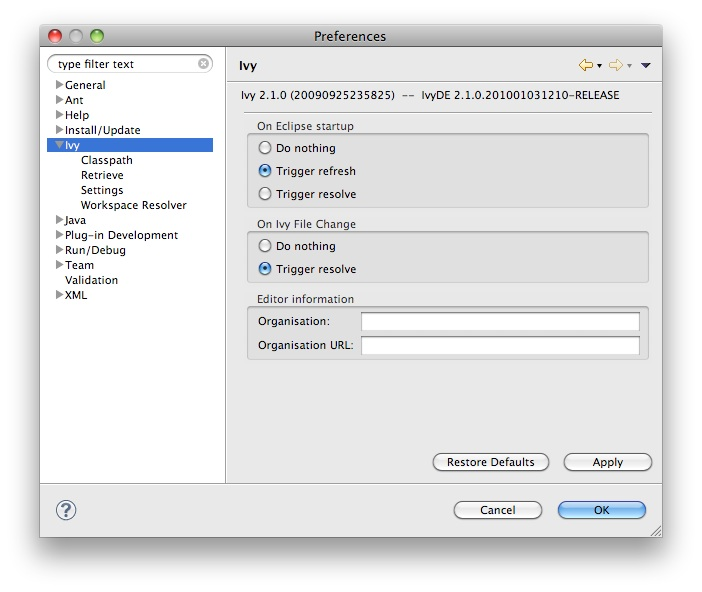
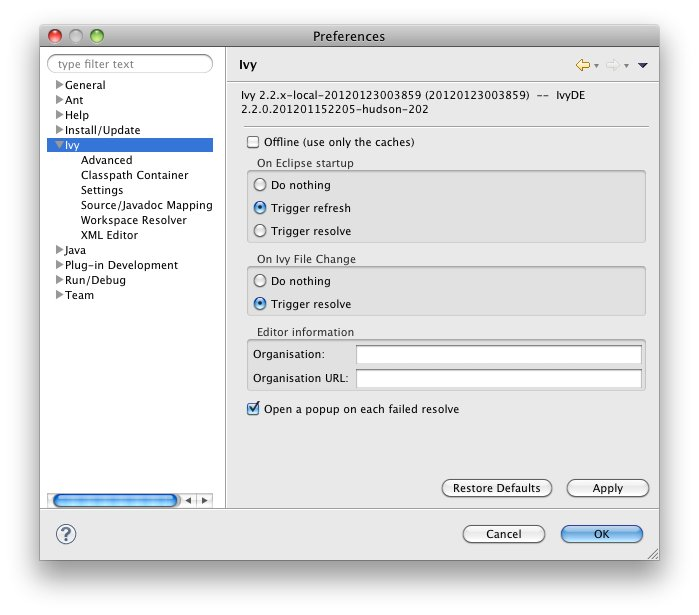
First review of the screenshots
git-svn-id: http://svn.apache.org/repos/asf/ant@1238084 13f79535-47bb-0310-9956-ffa450edef68

Changed region(s): [[0.0601, 0.0304, 0.9313, 0.6993], [0.0601, 0.7601, 0.9614, 0.9122]]

diff --git a/ivy/ivyde/trunk/doc/preferences.html b/ivy/ivyde/trunk/doc/preferences.html
@@ -30,7 +30,6 @@ The global configuration can be found in the preferences of Eclipse (menu Window
 
 <h1><a name="global"></a>Global Ivy preferences</h1>
 
-<b><font color="red">TODO: SCREENSHOT NOT UP TO DATE</font></b>
 <center><img src="images/pref.jpg"/></center>
 
 <h4>Offline</h4>
@@ -48,14 +47,16 @@ The global configuration can be found in the preferences of Eclipse (menu Window
 
 <h1><a name="advanced"></a>Advanced</h1>
 
-<b><font color="red">TODO: SCREENSHOT</font></b>
+<center><img src="images/pref_advanced.jpg"/></center>
 
 <h4>Resolve before launch:</h4>
 <p>An IvyDE container can be used in the classpath of a launch configuration, and the container can be resolved on each launch. See the documentation about <a href="cpc/launch.html">launch configurations</a> for further information on this feature.</p>
 
+<h4>Use extended resolve id</h4>
+<p>A resolve id is an identifier which helps Ivy to make cache of results of resolve. By default IvyDE each the id which is composed of the organisation and the module name. An extended resolve id is also composed of the status, branch and revision. If you have troubles with the resolve of multiple versions of the same project within the same workspace, you should probably enable this option.</p>
+
 <h1><a name="classpath"></a>Classpath container</h1>
 
-<b><font color="red">TODO: SCREENSHOT NOT UP TO DATE</font></b>
 <center><img src="images/pref_classpath.jpg"/></center>
 
 <h4>Resolve dependencies in workpace:</h4>
@@ -75,7 +76,6 @@ The global configuration can be found in the preferences of Eclipse (menu Window
 
 <h1><a name="settings"></a>Ivy settings</h1>
 
-<b><font color="red">TODO: SCREENSHOT NOT UP TO DATE</font></b>
 <center><img src="images/pref_settings.jpg"/></center>
 
 <h4>Reload the settings only on demand:</h4>
@@ -87,8 +87,7 @@ The global configuration can be found in the preferences of Eclipse (menu Window
 
 <h1><a name="mapping"></a>Source/Javadoc mapping</h1>
 
-<b><font color="red">TODO: SCREENSHOT NOT UP TO DATE</font></b>
-<center><img src="images/pref_workspace.jpg"/></center>
+<center><img src="images/pref_source_javadoc_mapping.jpg"/></center>
 
 <h4>Sources types:</h4>
 <p>A comma separated list of Ivy "type" names which should be considered sources.</p>
@@ -107,7 +106,6 @@ The global configuration can be found in the preferences of Eclipse (menu Window
 
 <h1><a name="workspace"></a>Workspace resolver</h1>
 
-<b><font color="red">TODO: SCREENSHOT NOT UP TO DATE</font></b>
 <center><img src="images/pref_workspace.jpg"/></center>
 
 <h4>Closing trigger resolve:</h4>
@@ -119,8 +117,7 @@ The global configuration can be found in the preferences of Eclipse (menu Window
 
 <h1><a name="xmleditor"></a>XML Editor</h1>
 
-<b><font color="red">TODO: SCREENSHOT</font></b>
-<center><img src="images/xmleditor_color_config.jpg"/></center>
+<center><img src="images/xml_editor_color.jpg"/></center>
 
 This configuration panel allow you to change the color used in the <a href="ivyeditor.html">Ivy file editor</a> and the <a href="settingseditor.html">Ivy settings editor</a>.
 </textarea>

diff --git a/ivy/ivyde/trunk/doc/index.html b/ivy/ivyde/trunk/doc/index.html
@@ -24,7 +24,7 @@
 </head>
 <body>
 	<textarea id="xooki-source">
-Apache IvyDE is the Eclipse plugin which integrates Apache Ivy's dependency management into Eclipse&#153;. It lets you manage your dependencies declared in an ivy.xml in your Java Eclipse projects, or any other kind of project which needs dependency management.
+Apache IvyDE Eclipse plugin integrates Apache Ivy's dependency management into Eclipse&#153;. It lets you manage your dependencies declared in an ivy.xml in your Java Eclipse projects, or any other kind of project which needs dependency management.
 
 A summary of the features it provides follows:
 <ul>
@@ -33,6 +33,7 @@ A summary of the features it provides follows:
 <li><a href="settingseditor.html">Ivy settings files editor</a>: completion for XML tags, attributes, and attribute values.</li>
 <li><a href="cp_container.html">Ivy console</a>: presents every log from Ivy to assist in debugging a failing resolve.</li>
 <li><a href="revdepexplorer.html">Reverse Dependency Explorer</a>: helps you work with conflicting dependencies amongst several projects.</li>
+<li>Resolve and retrieve for non Java project: use Ivy within Eclipse to manage files non necessarly Java-related</li>
 </ul>
 
 Apache IvyDE can be also used with other plugins like <a href="cpc/wtp.html">WTP</a> and <a href="ant.html">Apache Ant</a>.

diff --git a/ivy/ivyde/trunk/doc/cpc/resolve.html b/ivy/ivyde/trunk/doc/cpc/resolve.html
@@ -30,6 +30,8 @@ This command will invoke the "resolve" Ivy task and update your classpath contai
 
 There is also a "refresh" action: this action is similar to the resolve one, but does not perform a full resolve if a report already exists in the cache. This is particularly useful if you work with Apache Ant and a command line so that you avoid two full resolves.  It is also the default action performed on classpath containers when the Eclipse workspace is opened (<b>Windows > Preferences > Ivy</b>), in effect restoring the classpath container to its state prior to the last closing of the workspace if no other action is performed against the ivy.xml in the meantime.
 
+And there is a "reload settings" action: by default IvyDE does reload ivy settings files each time a resolve it required. But in case the ivy settings file is remote, this take make the user experience quite slow. To work around that, you can check in the <a href="../preferences.html">preference page</a> the option to only load on demand, and use the "reload settings" action in the context menu.
+
 <center><img src="../images/cp_resolve.jpg"></center><br/>
 
 You can also trigger a resolve (not a refresh!) of every IvyDE classpath container in the workspace via the button in the tool bar of Eclipse.

diff --git a/ivy/ivyde/trunk/doc/cpc/workspace.html b/ivy/ivyde/trunk/doc/cpc/workspace.html
@@ -32,7 +32,7 @@ Consider a multi-module application with a considerable amount of code in each o
 
 First, each application module should be separate a project in Eclipse, and each of these projects should have a configured IvyDE classpath container.
 
-To enable resolution in the workspace, go to the advanced configuration panel of the classpath container and select <b>Resolve dependencies in workspace</b>.
+To enable resolution in the workspace, go to the "classpath" panel of the classpath container and select <b>Resolve dependencies in workspace</b>.
 
 <center><img src="../images/workspace.jpg"/></center>
 

diff --git a/ivy/ivyde/trunk/doc/cp_container.html b/ivy/ivyde/trunk/doc/cp_container.html
@@ -24,7 +24,7 @@
 </head>
 <body>
 	<textarea id="xooki-source">
-The IvyDE classpath container will help you manage the classpath of your Eclipse&#153; projects, based on the dependencies declared in Ivy files found in your projects.
+The IvyDE classpath container will help you manage the classpath of your Java&#153; Eclipse&#153; projects, based on the dependencies declared in Ivy files found in your projects.
 
 Some of the tasks that can be performed on the container include:
 <ul>
